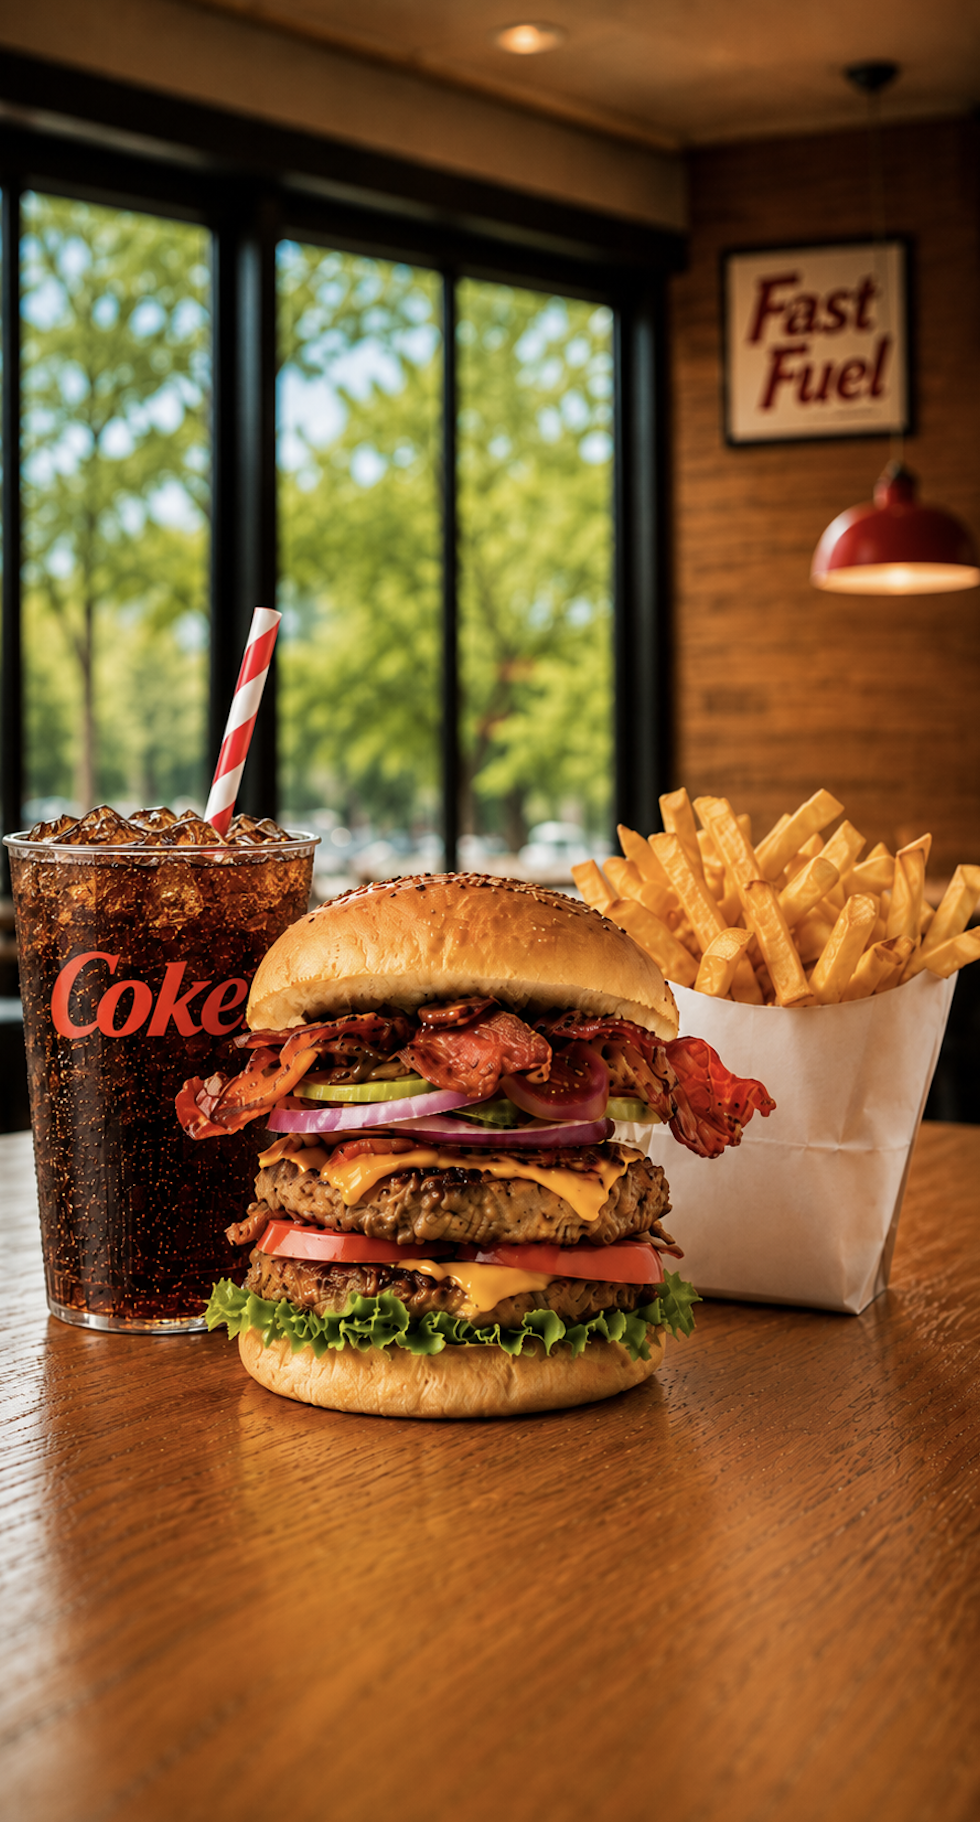
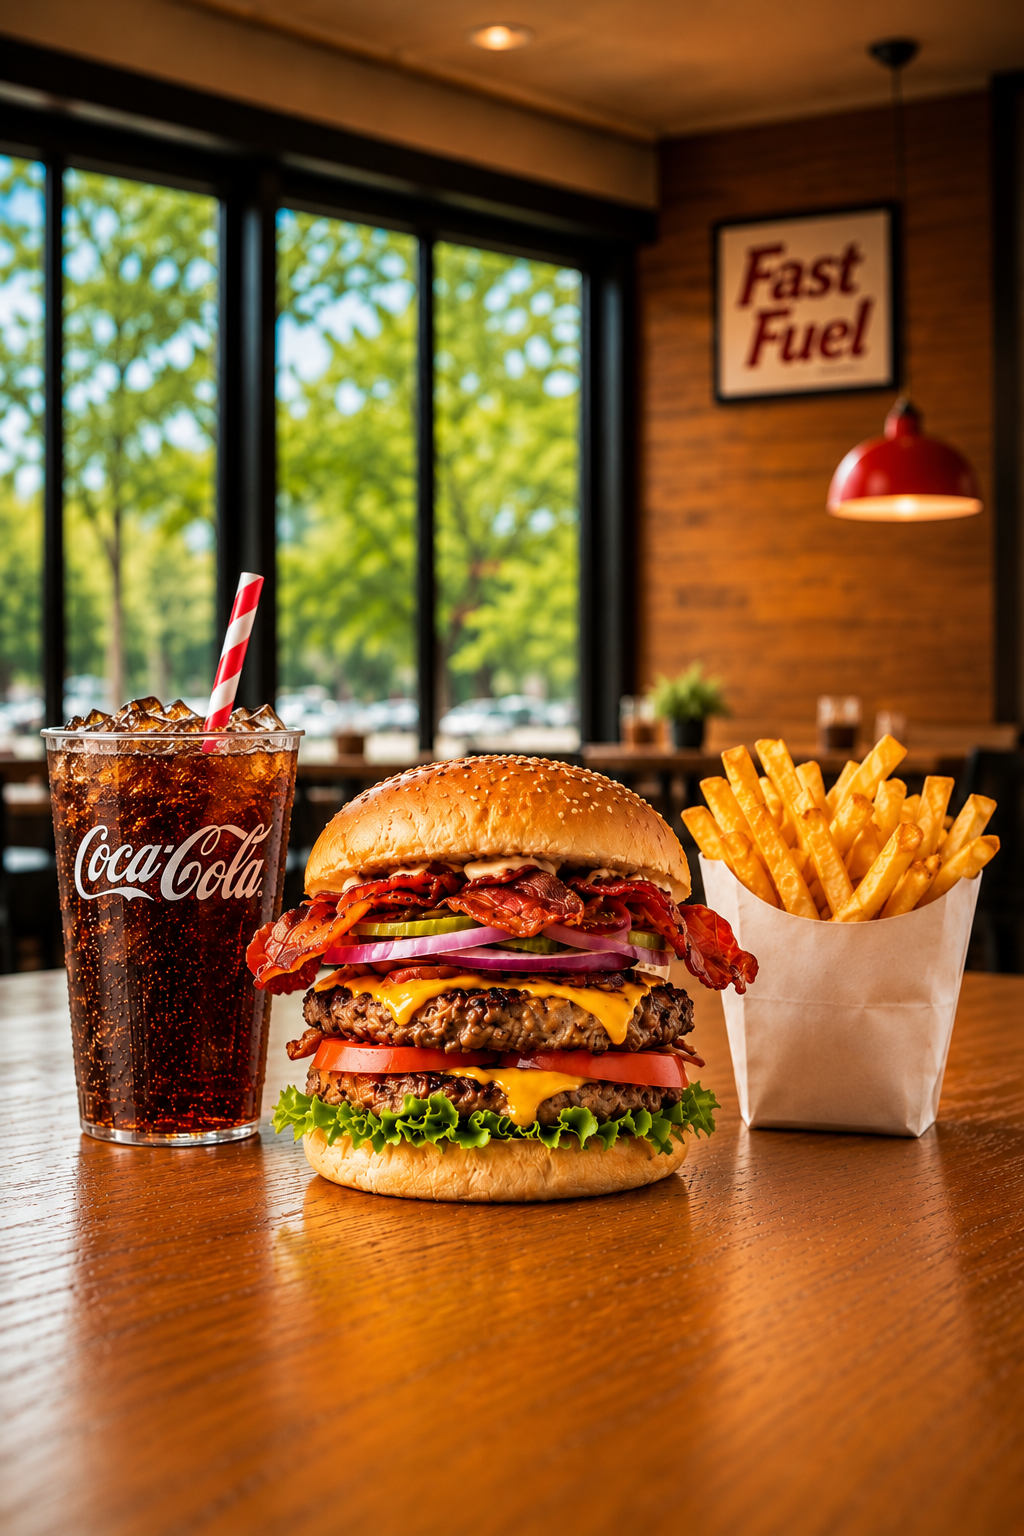
combo pic update

diff --git a/src/pages/Home.tsx b/src/pages/Home.tsx
@@ -49,7 +49,7 @@ const mobileSlides = [
         id: "combo",
         src: ComboMobile,
         alt: "Combo Promo",
-        position: "center 60%",
+        position: "center 70%",
     },
 
     { id: "rest", src: RestImg, alt: "Rest" },
